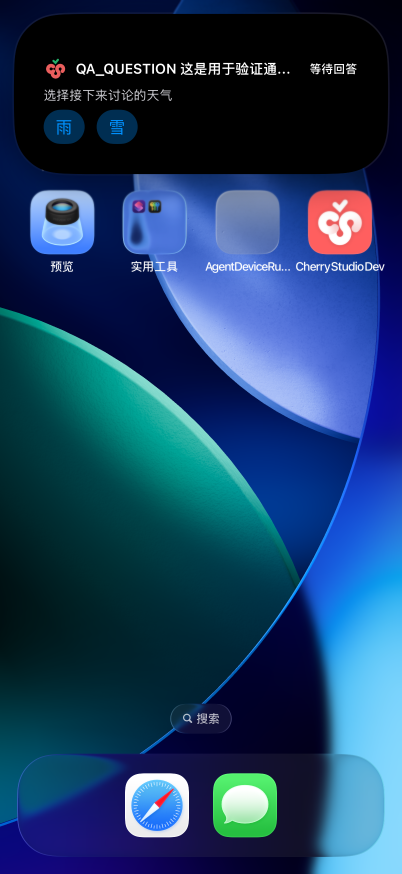
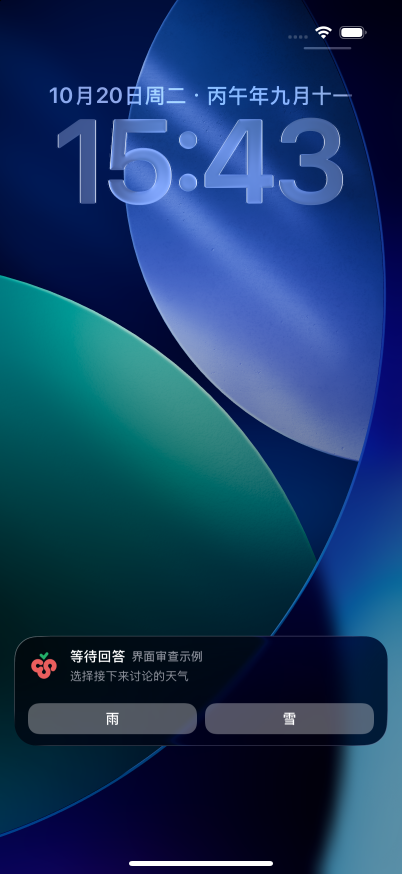
fix(background-activity): submit pasted invitations after iOS paste consent
iOS's paste consent alert leaves the app inactive when the clipboard read
resolves, so the pairing guard silently dropped a valid invitation. Wait
until the app is active again before submitting. Refresh the background
activity screenshots with device captures of the new layouts.

diff --git a/src/frontend/features/settings/DeviceConnectionsScreen/DeviceConnectionScannerScreen.tsx b/src/frontend/features/settings/DeviceConnectionsScreen/DeviceConnectionScannerScreen.tsx
@@ -4,7 +4,7 @@ import * as Clipboard from 'expo-clipboard';
 import { useLocalSearchParams, useRouter } from 'expo-router';
 import { useCallback, useRef, useState } from 'react';
 import { useTranslation } from 'react-i18next';
-import { StyleSheet, Text, View } from 'react-native';
+import { AppState, StyleSheet, Text, View } from 'react-native';
 import { useSafeAreaInsets } from 'react-native-safe-area-context';
 
 import { RouteHeader } from '@/frontend/appShell/header';
@@ -76,8 +76,18 @@ export function DeviceConnectionScannerScreen({
 
   const pasteInvitation = async () => {
     const invitation = parseDesktopPairingCode(await Clipboard.getStringAsync().catch(() => ''));
-    if (invitation) submit(invitation);
-    else
+    if (invitation) {
+      // iOS's paste consent alert leaves the app inactive when the read resolves.
+      if (AppState.currentState !== 'active')
+        await new Promise<void>((resolve) => {
+          const subscription = AppState.addEventListener('change', (state) => {
+            if (state !== 'active') return;
+            subscription.remove();
+            resolve();
+          });
+        });
+      submit(invitation);
+    } else
       toast.show({
         label: t('settings.deviceConnections.scan.invalidInvitation'),
         variant: 'danger',

diff --git a/docs/references/background-activity-presentation.md b/docs/references/background-activity-presentation.md
@@ -170,9 +170,10 @@ multilingual payloads. Native acceptance must also confirm retirement of an ende
 including completion-notice handoff. Native delivery and OS behavior require a rebuilt client; lint
 and source guards are insufficient.
 
-The following examples show the Android per-PC connection group from a physical Android 16 device
-and an iOS single-question Live Activity from a simulator using a deterministic local model fixture.
-The iOS fixture validates native layout and action delivery, not suspended-app remote push.
+The following examples show an Android connection notice from an Android 16 emulator and an iOS
+single-question Live Activity on the simulator Lock Screen, both from a local presentation fixture.
+The fixtures validate native layout and action delivery, not a live desktop transport or
+suspended-app remote push.
 
-![Android connection group with Disconnect](../../.github/images/background-activity/android-connection-group.png)
-![iOS single-question card with a long title](../../.github/images/background-activity/ios-question-card.png)
+![Android connection notice with Disconnect](../../.github/images/background-activity/android-connection-group.png)
+![iOS single-question card with neutral option buttons](../../.github/images/background-activity/ios-question-card.png)
